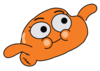
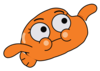
docs(design): Darwin swimming eyes, cheeks, mouth and low fin set by measurement, front brows traced from the reference (NAK-353)

diff --git a/docs/design/darwin/build.py b/docs/design/darwin/build.py
@@ -36,6 +36,36 @@ def smooth(pts):
     return d + "Z"
 
 
+def poly(pts):
+    """Closed polygon through points measured on the reference (brows)."""
+    return "M" + "L".join("%d %d" % p for p in pts) + "Z"
+
+
+def chain(pts):
+    """Open Catmull-Rom spline through points measured on the reference."""
+    d = "M%d %d" % pts[0]
+    for i in range(len(pts) - 1):
+        p0, p1, p2, p3 = pts[max(i - 1, 0)], pts[i], pts[i + 1], pts[min(i + 2, len(pts) - 1)]
+        d += "C%.1f %.1f %.1f %.1f %d %d" % (p1[0] + (p2[0] - p0[0]) / 6, p1[1] + (p2[1] - p0[1]) / 6,
+                                             p2[0] - (p3[0] - p1[0]) / 6, p2[1] - (p3[1] - p1[1]) / 6, p2[0], p2[1])
+    return d
+
+
+# Front brows: top then bottom edge of each ink blob of the reference, read
+# every 6 px where the printed line is half covered (red channel under 125).
+BROW_L = [(220, 70), (226, 61), (232, 56), (238, 54), (244, 51), (250, 49), (256, 47), (262, 46), (268, 46),
+          (274, 46), (280, 47), (286, 48), (292, 50), (298, 52), (302, 59), (302, 61), (298, 68), (292, 71),
+          (286, 71), (280, 70), (274, 69), (268, 68), (262, 69), (256, 71), (250, 73), (244, 75), (238, 79),
+          (232, 81), (226, 80), (220, 73)]
+BROW_R = [(458, 41), (464, 34), (470, 33), (476, 32), (482, 32), (488, 32), (494, 32), (500, 33), (506, 35),
+          (512, 37), (518, 40), (524, 43), (530, 48), (533, 54), (533, 58), (530, 63), (524, 66), (518, 65),
+          (512, 63), (506, 60), (500, 57), (494, 55), (488, 54), (482, 54), (476, 54), (470, 55), (464, 55),
+          (458, 47)]
+# Swimming low fin: centre of the ink line of the reference, read every 8 px.
+SWIM_FIN = [(146, 350), (138, 366), (136, 382), (139, 396), (145, 408), (151, 420), (158, 429), (165, 436),
+            (177, 444), (192, 452), (205, 455), (217, 452), (230, 444), (238, 434), (250, 410)]
+
+
 def cheek(cx, cy, r, a1, a2, sweep):
     """Cheek bump: a body-coloured disc that overlaps the eye, outlined on
     the arc from angle a1 to a2 (degrees, y down), open on the outer side."""
@@ -66,10 +96,8 @@ def front(small=False):
         '<circle cx="285" cy="188" r="47" fill="%s"/><circle cx="484" cy="177" r="47" fill="%s"/>' % (INK, INK),
         # Lashes: short, thin ticks on the upper outer arc of each eye.
         '<path d="M193 124l-10-12M180 147l-12-7M175 171l-13-3M555 99l8-11M575 119l10-7M586 142l12-4" fill="none" %s/>' % s.replace('"7"', '"5"'),
-        # Brows are solid wedges on the reference: blunt towards the nose
-        # side of the head, tapered to a point on the other.
-        '<path d="M220 74C217 62 230 51 250 45C270 40 292 45 304 54C290 57 272 60 254 67C242 72 228 84 220 74Z'
-        'M458 48C455 36 470 26 490 27C512 28 530 43 540 61C524 54 508 51 492 51C478 51 462 60 458 48Z" fill="%s"/>' % INK,
+        # Brows are solid shapes on the reference, traced from its ink.
+        '<path d="%s%s" fill="%s"/>' % (poly(BROW_L), poly(BROW_R), INK),
         cheek(286, 314, 63, 203, 118, 1), cheek(503, 301, 59, -30, 62, 0),
         '<path d="M346 320Q398 352 448 306" fill="none" %s/>' % s,
         '<circle cx="290" cy="307" r="30" fill="%s"/><circle cx="492" cy="297" r="30" fill="%s"/>' % (LIGHT, LIGHT),
@@ -101,21 +129,22 @@ def swim(small=False):
         '<path d="M158 222c-14 20-12 52 4 70 8 4 14-2 12-10-8-18-8-36 0-52-2-8-10-12-16-8z" fill="%s"/>' % LIGHT,
         # Tail fin under the arm, then the arm reaching forward; both open
         # paths so the joint with the body carries no outline.
-        '<path d="M150 352c-28 30-10 80 30 92 36 10 66-6 70-36" fill="%s" %s/>' % (BODY, s),
-        '<path d="M158 392l22 12M170 408l22 12M184 422l22 12" fill="none" %s/>' % s,
-        '<path d="M218 318C160 288 92 288 50 320c-35 25-30 65 0 70 35 2 60-25 100-40L200 372" fill="%s" %s/>' % (BODY, s),
+        '<path d="%s" fill="%s" %s/>' % (chain(SWIM_FIN), BODY, s),
+        # Two long strokes across the fin and a tick under the arm, as measured.
+        '<path d="M150 405L169 395M181 443L195 423M175 355l6 5" fill="none" %s/>' % s,
+        '<path d="M218 318C160 288 92 288 50 320c-35 25-30 65 0 70 35 2 60-25 93-42L197 358" fill="%s" %s/>' % (BODY, s),
     ]
     detail = [
-        '<ellipse cx="275" cy="205" rx="70" ry="56" transform="rotate(-12 275 205)" fill="%s" %s/>' % (WHITE, s),
-        '<ellipse cx="418" cy="155" rx="67" ry="62" fill="%s" %s/>' % (WHITE, s),
-        '<circle cx="297" cy="198" r="22" fill="%s"/><circle cx="437" cy="140" r="21" fill="%s"/>' % (INK, INK),
-        '<path d="M210 186l-12-4M208 206l-13 3M432 96l2-12M452 102l6-11" fill="none" %s/>' % s,
+        '<ellipse cx="272.5" cy="217" rx="67" ry="64" fill="%s" %s/>' % (WHITE, s),
+        '<ellipse cx="416.5" cy="156" rx="64" ry="61.5" fill="%s" %s/>' % (WHITE, s),
+        '<circle cx="296.5" cy="198.4" r="20.5" fill="%s"/><circle cx="437.6" cy="140.6" r="19.6" fill="%s"/>' % (INK, INK),
+        '<path d="M207 200l-12-4M205 220l-13 3M432 96l2-12M452 102l6-11" fill="none" %s/>' % s,
         # Neutral brows: the reference frame frowns, the model sheet does not.
-        '<path d="M236 136c16-12 40-16 60-10M372 84c18-12 42-12 58-2" fill="none" %s/>' % s.replace('"5"', '"8"'),
-        cheek(318, 291, 37, 205, 110, 1).replace('width="7"', 'width="5"'),
-        cheek(447, 236, 37, -40, 70, 0).replace('width="7"', 'width="5"'),
-        '<path d="M354 287C372 292 396 270 412 262" fill="none" %s/>' % s,
-        '<circle cx="318" cy="289" r="21" fill="%s"/><circle cx="443" cy="233" r="21" fill="%s"/>' % (LIGHT, LIGHT),
+        '<path d="M234 140c16-12 40-16 60-10M372 84c18-12 42-12 58-2" fill="none" %s/>' % s.replace('"5"', '"8"'),
+        cheek(310, 298, 43, 189, 96, 1).replace('width="7"', 'width="5"'),
+        cheek(454, 237, 41, -64, 49, 0).replace('width="7"', 'width="5"'),
+        '<path d="M353 282Q384 266 413 259" fill="none" %s/>' % s,
+        '<circle cx="314" cy="291" r="18" fill="%s"/><circle cx="443" cy="235" r="19" fill="%s"/>' % (LIGHT, LIGHT),
     ]
     return "\n".join(base if small else base + detail)
 
@@ -140,9 +169,10 @@ FRONT_25 = "".join([px(8, 15, 2, 5, BODY, 1), px(16, 15, 2, 5, BODY, 1),
                     px(6, 3, 6, 6, WHITE, 3), px(14, 3, 6, 6, WHITE, 3),
                     px(8, 5, 3, 3, INK, 1), px(15, 5, 3, 3, INK, 1),
                     px(9, 10, 2, 2, LIGHT, 1), px(16, 10, 2, 2, LIGHT, 1)])
-# One pixel of body is kept between the two eyes so they do not merge.
+# One pixel of body is kept between the two eyes so they do not merge; the
+# pupils are square so that they stay solid ink on whole pixels.
 SWIM_25 = "".join([px(7, 5, 5, 5, WHITE, 2.5), px(13, 3, 5, 5, WHITE, 2.5),
-                   px(10, 6, 2, 2, INK, 1), px(15, 4, 2, 2, INK, 1),
+                   px(10, 6, 2, 2, INK), px(15, 4, 2, 2, INK),
                    px(11, 10, 1, 1, LIGHT), px(16, 8, 1, 1, LIGHT)])
 
 

diff --git a/docs/design/darwin/README.md b/docs/design/darwin/README.md
@@ -71,9 +71,12 @@ being the ratio of the two body masks, 715 px against 406 px wide).
   fitted by 48 rays: mask bounding box 724 x 453 against 725 x 453, 0.49 %
   of the pixels differ. The tail fin is
   redrawn from the reference: fused to the body, the body line curling into
-  it at both ends, two short strokes. Brows are solid tapered wedges and the
-  lashes short 5 px ticks on the upper outer arc of each eye, both placed
-  from a 3x crop of the reference (by eye, about 3 px). Remaining: pupils are pure ink where the printed
+  it at both ends, two short strokes. Brows are the ink blobs of the
+  reference traced every 6 px at half coverage (`BROW_L`, `BROW_R` in
+  `build.py`): 225 of 2032 and 296 of 1746 brow pixels differ from the
+  reference, about 1 px along the edge. Lashes are short 5 px ticks on the
+  upper outer arc of each eye, placed from a 3x crop of the reference (by
+  eye, about 3 px). Remaining: pupils are pure ink where the printed
   frame shows dark grey; colours come from the swimming frame, the poster
   being a desaturated print (body `#d67028` there).
 - Swimming: the body outline is fitted by 48 rays onto the reference
@@ -81,10 +84,17 @@ being the ratio of the two body masks, 715 px against 406 px wide).
   tracing where the leg, the arm or the tail fin hide the edge. Before the
   fit our outline was 9.1 px too far out on average (14.2 px at worst) in
   the 680 space; after it the same measurement gives 0.6 px on average and
-  4.0 px at worst. Eyes, cheeks, arm and leg are still placed by eye, within
-  about 10 px. The low fin is smaller than on the reference and the left
-  eye slightly smaller. Brows are neutral on purpose (the reference
-  frowns). The mouth is a single curve; the reference has a kink.
+  4.0 px at worst. Eyes, pupils and cheek spots are set from the connected
+  regions of the reference (centroid and bounding box): right eye white
+  within 1.6 px, pupils 0.7 px, cheek spots 1.0 px; the left eye white is
+  2.5 px higher than the reference region because the reference brow cuts
+  its top and ours is neutral. Cheek arcs are least-squares circles on the
+  reference ink (mean residual 1.3 px and 1.2 px). The mouth follows the ink
+  read every 6 px, a shallow curve from cheek to cheek. The low fin follows
+  the ink line read every 8 px (`SWIM_FIN`), with the two long strokes and
+  the tick under the arm that the reference shows (it has two strokes, not
+  three). Arm, leg, lashes and brows are still placed by eye. Brows are
+  neutral on purpose (the reference frowns).
 - Outline weight: 7 px in the 729 space and 5 px in the 680 space. The two
   bodies are 670 px and 460 px wide in their spaces, so the stroke is 1.04 %
   and 1.09 % of the body width: the same weight on the character.
